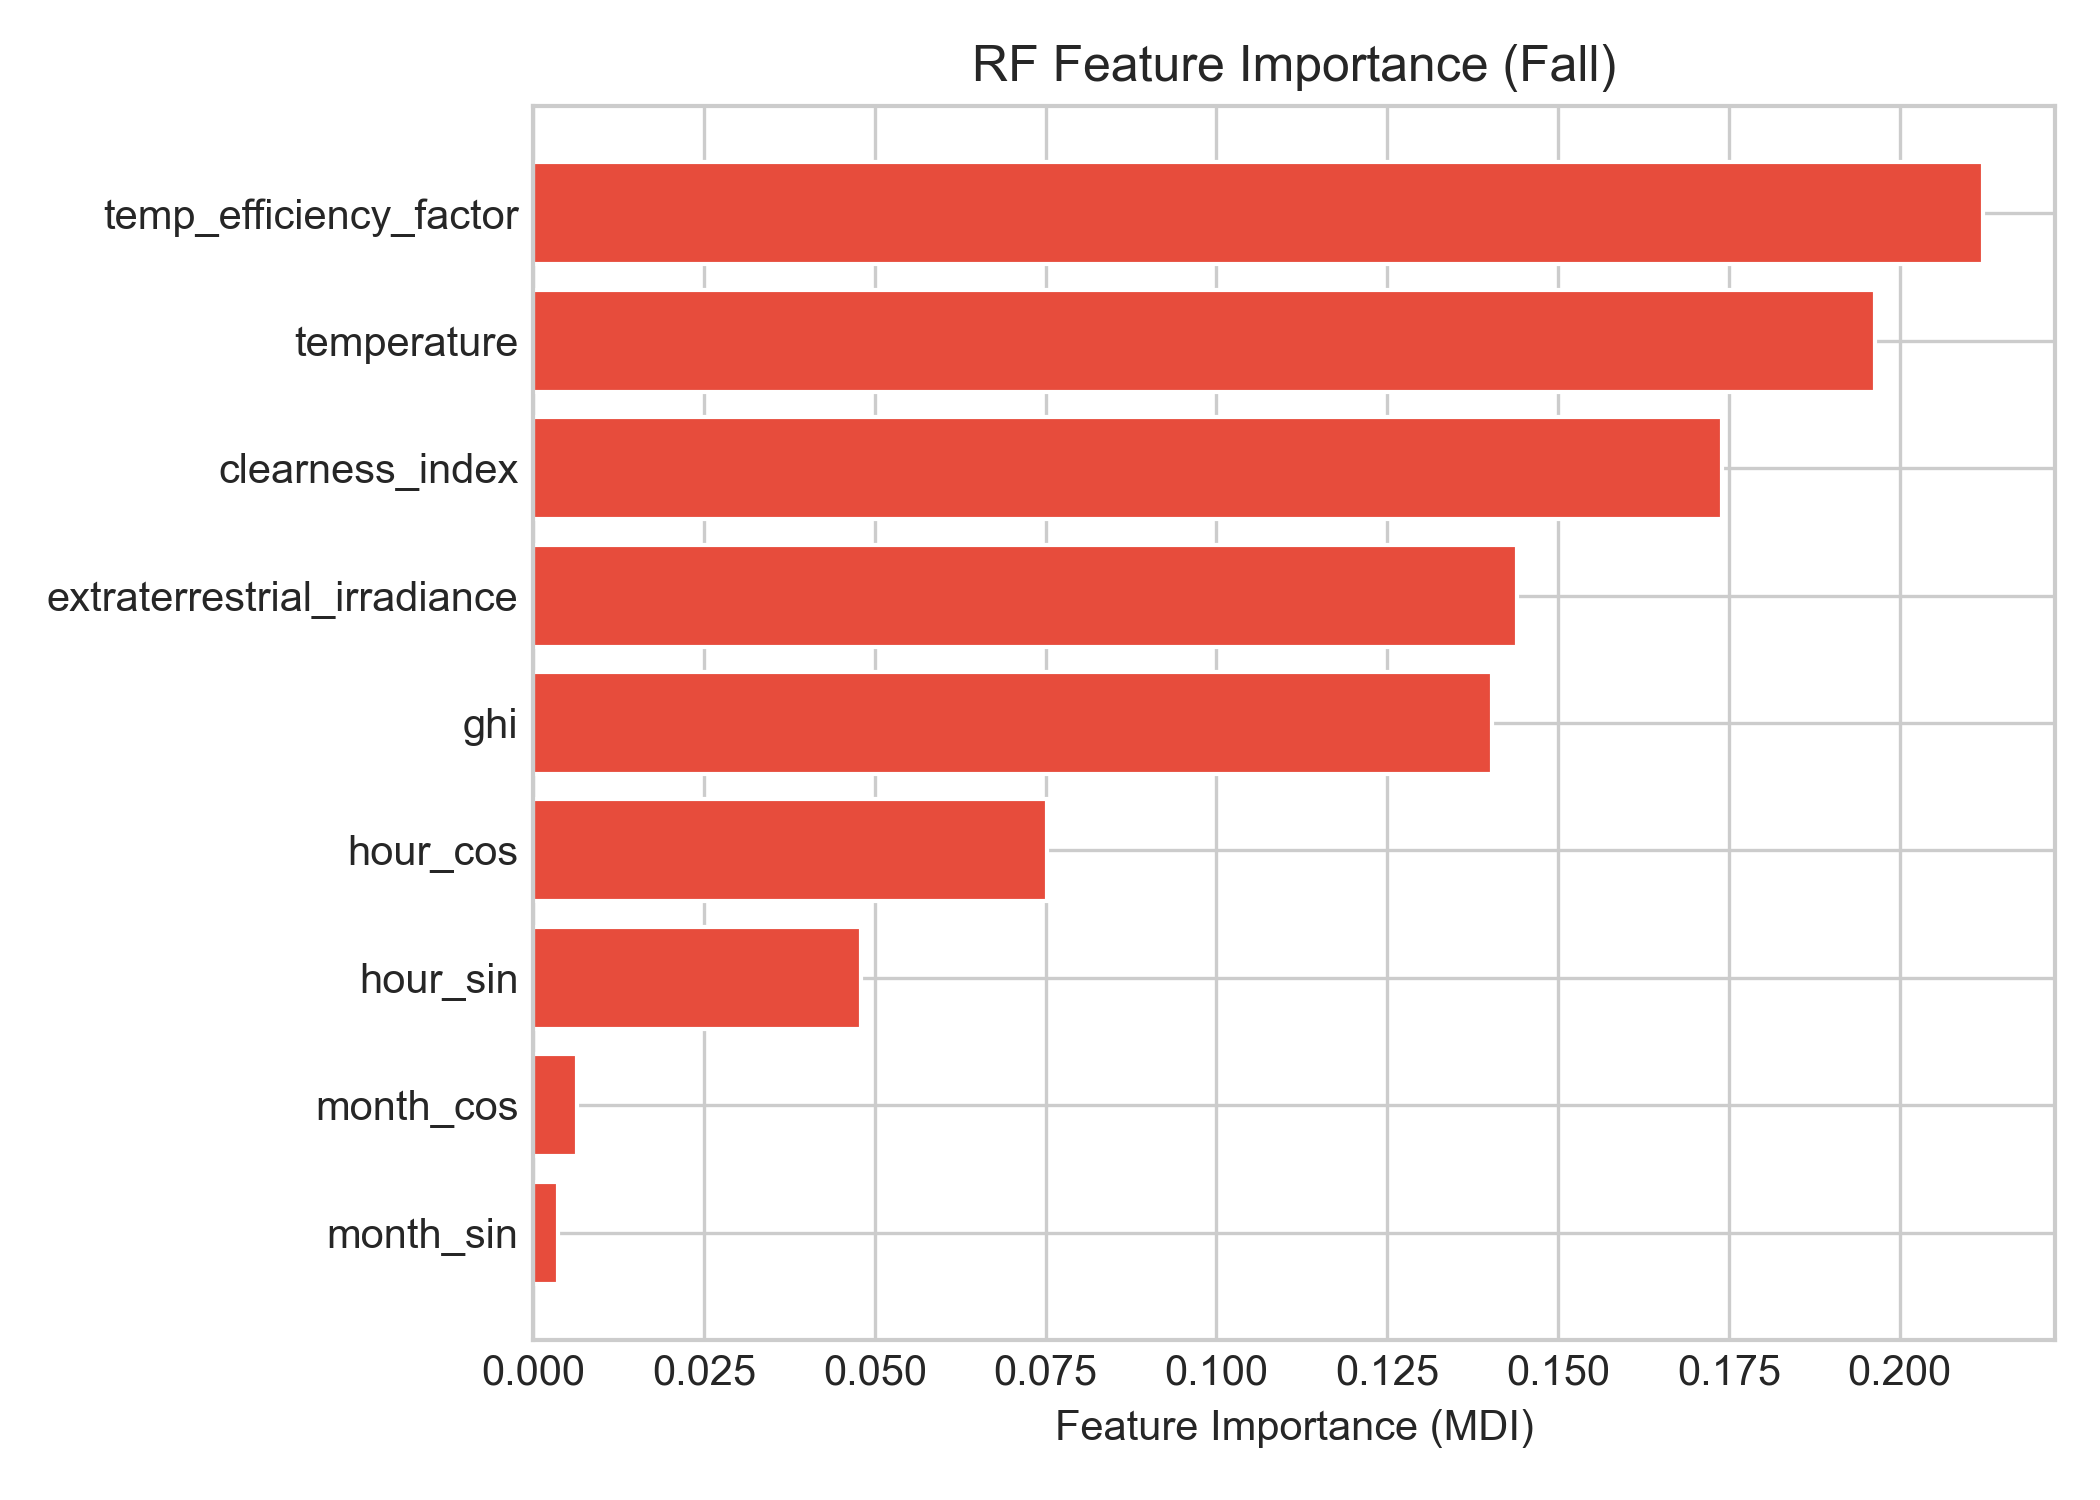
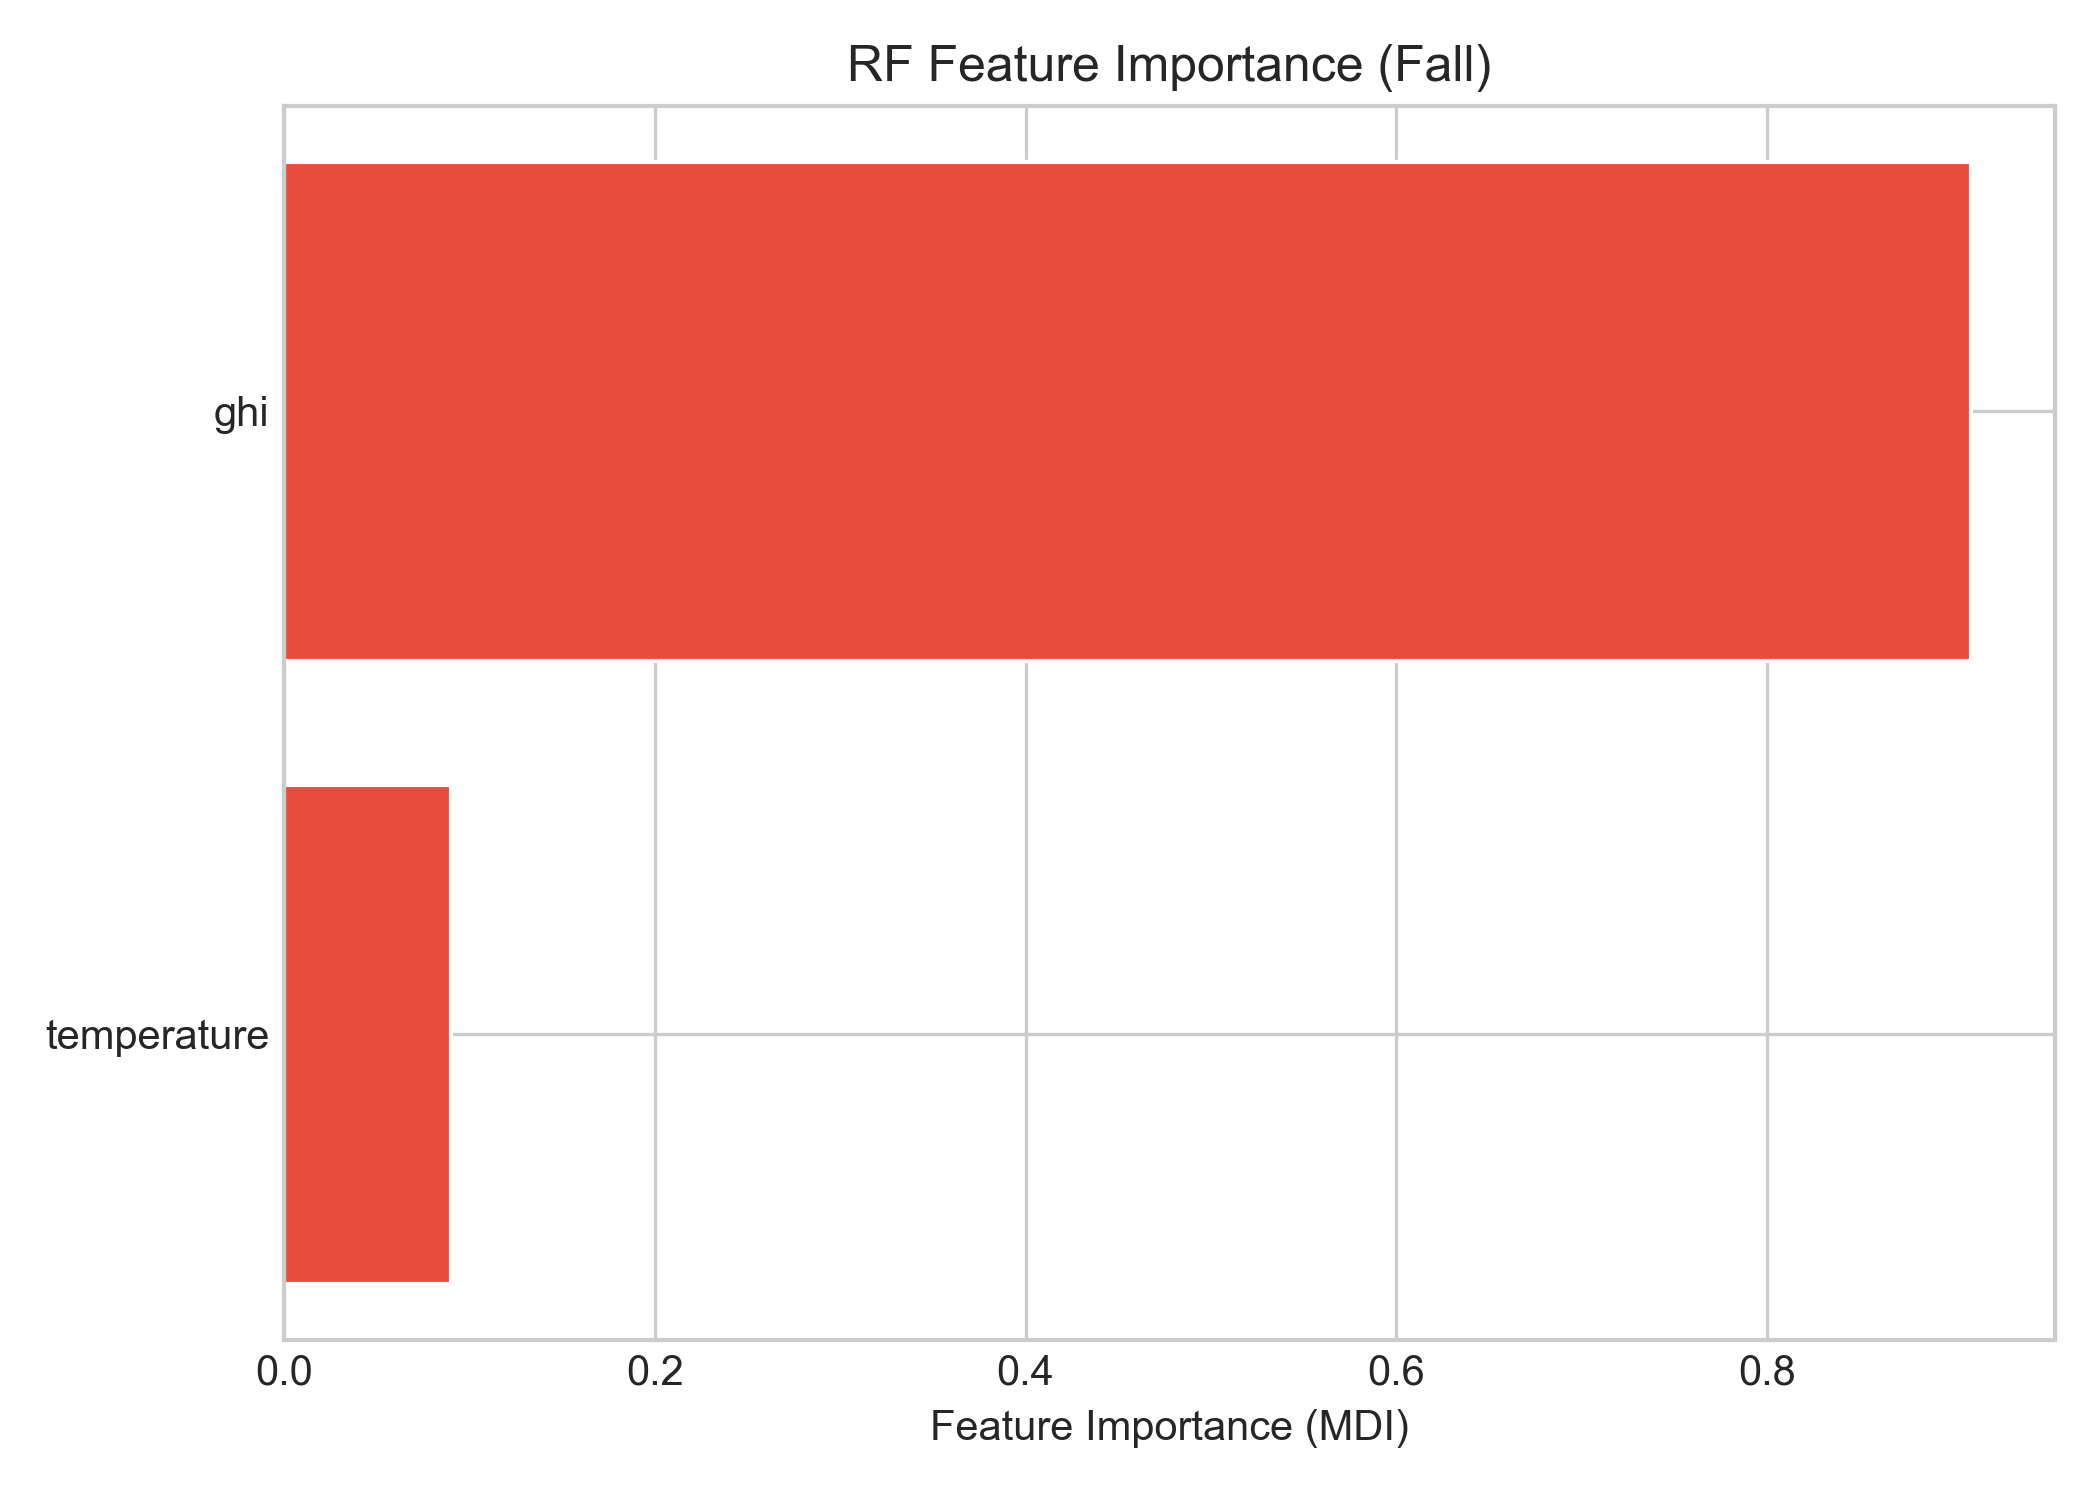
fix: Fixed data loading and updated results

diff --git a/src/main.py b/src/main.py
@@ -24,6 +24,7 @@ import json
 import logging
 import sys
 from pathlib import Path
+from typing import Any
 
 import numpy as np
 import pandas as pd
@@ -48,7 +49,7 @@ from src.evaluation import (
     residual_analysis,
 )
 from src.feature_engineering import engineer_features, get_feature_columns
-from src.models import build_mlr, build_rf, predict, train_model
+from src.models import build_rr, build_rf, predict, train_model
 from src.seasonal_split import SplitData, chronological_split, seasonal_splits
 from src.visualization import (
     plot_actual_vs_predicted,
@@ -72,6 +73,7 @@ def _run_model_on_split(
     season: str,
     feature_cols: list[str],
     do_grid_search: bool = False,
+    preloaded_params: dict[str, Any] | None = None,
 ):
     """Train, tune (if RF), predict on test set, evaluate and plot.
 
@@ -79,11 +81,13 @@ def _run_model_on_split(
     - RF:    tuned using the val set (when do_grid_search=True), then refitted
              on train-only; evaluated on X_test / y_test.
     """
-    if model_name == "MLR":
-        pipeline = build_mlr()
+    if model_name == "RR":
+        pipeline = build_rr()
         fitted, best_params = train_model(pipeline, split)
     else:
         pipeline = build_rf()
+        if preloaded_params:
+            pipeline.set_params(**preloaded_params)
         fitted, best_params = train_model(
             pipeline,
             split,
@@ -93,9 +97,11 @@ def _run_model_on_split(
 
     # Predict on TEST set only
     y_pred = predict(fitted, split)
+    if model_name == "RR":
+        y_pred = np.maximum(y_pred, 0.0)
 
-    # Metrics on test set (pass X_test for Breusch-Pagan on Ridge/MLR)
-    X_for_bp = split.X_test if model_name == "MLR" else None
+    # Metrics on test set (pass X_test for Breusch-Pagan on Ridge/RR)
+    X_for_bp = split.X_test if model_name == "RR" else None
     metrics = compute_metrics(split.y_test, y_pred, X=X_for_bp)
 
     # Residual diagnostics on test set
@@ -203,17 +209,30 @@ def run_pipeline(
     results: dict[str, dict[str, object]] = {}
     best_params_dict: dict[str, dict[str, Any]] = {}
 
+    loaded_params: dict[str, dict[str, Any]] = {}
+    if not do_grid_search:
+        params_path = RESULTS_DIR / "best_hyperparameters.json"
+        if params_path.exists():
+            with open(params_path, "r") as f:
+                loaded_params = json.load(f)
+            print(f"  Loaded hyperparameters from {params_path}")
+
     for split_name, split_data in all_splits.items():
         print(f"\n--- {split_name} ---")
         results[split_name] = {}
         best_params_dict[split_name] = {}
 
-        for model_name in ("MLR", "RF"):
-            label = "Ridge (MLR)" if model_name == "MLR" else "Random Forest"
+        for model_name in ("RR", "RF"):
+            label = "Ridge (RR)" if model_name == "RR" else "Random Forest"
             print(f"  Training {label} ...")
+            preloaded_params = None
+            if not do_grid_search and split_name in loaded_params and model_name in loaded_params[split_name]:
+                preloaded_params = loaded_params[split_name][model_name]
+
             metrics, fitted, best_params = _run_model_on_split(
                 model_name, split_data, split_name, feature_cols,
                 do_grid_search=(do_grid_search and model_name == "RF"),
+                preloaded_params=preloaded_params,
             )
             results[split_name][model_name] = metrics
             
@@ -247,9 +266,8 @@ def run_pipeline(
         print(f"  Hyperparameters -> {params_path}")
 
     # 7. Seasonal bar charts (all four seasons, test-set metrics)
-    season_only = summary_df[summary_df["season"] != "Full Year"]
-    if not season_only.empty:
-        plot_seasonal_bars(season_only)
+    if not summary_df.empty:
+        plot_seasonal_bars(summary_df)
         print("  Seasonal bar charts saved.")
 
     # 8. Console summary

diff --git a/src/visualization.py b/src/visualization.py
@@ -1,7 +1,7 @@
 """
 visualization.py
 ----------------
-Publication-quality figures for the MLR vs. Random Forest solar power
+Publication-quality figures for the RR vs. Random Forest solar power
 forecasting comparison.  All plots are saved to ``config.FIGURES_DIR``.
 """
 
@@ -25,7 +25,7 @@ logger = logging.getLogger(__name__)
 
 plt.style.use(PLOT_STYLE)
 
-MODEL_COLOURS = {"MLR": "#3498db", "RF": "#e74c3c"}
+MODEL_COLOURS = {"RR": "#3498db", "RF": "#e74c3c"}
 SEASON_ORDER = ["Winter", "Spring", "Summer", "Fall"]
 
 
@@ -102,44 +102,40 @@ def plot_residuals(
 
 
 # ---------------------------------------------------------------------------
-# 3. Seasonal Bar Charts (nRMSE and R^2)
+# 3. Seasonal Bar Charts (nRMSE, nMAE and R^2)
 # ---------------------------------------------------------------------------
 
 def plot_seasonal_bars(summary_df: pd.DataFrame) -> None:
-    """Bar charts of nRMSE, nMAE, and R^2 grouped by season (test set)."""
-    fig, axes = plt.subplots(1, 3, figsize=(16, 5))
-
-    present_seasons = [s for s in SEASON_ORDER if s in summary_df["season"].values]
-    plot_df = summary_df[summary_df["season"].isin(present_seasons)].copy()
+    """Bar charts of nRMSE, nMAE, and R^2 grouped by season (test set), split into separate plots."""
+    # Ensure Full Year is displayed alongside the seasons
+    present_categories = [s for s in ["Full Year"] + SEASON_ORDER if s in summary_df["season"].values]
+    plot_df = summary_df[summary_df["season"].isin(present_categories)].copy()
     plot_df["season"] = pd.Categorical(
-        plot_df["season"], categories=present_seasons, ordered=True
+        plot_df["season"], categories=present_categories, ordered=True
     )
 
-    sns.barplot(data=plot_df, x="season", y="nrmse_pct", hue="model",
-                palette=MODEL_COLOURS, ax=axes[0])
-    axes[0].set_title("nRMSE by Season")
-    axes[0].set_ylabel("nRMSE (%)")
-    axes[0].set_xlabel("")
+    metrics = [
+        ("nrmse_pct", "nRMSE (%)", "nRMSE Performance Comparison"),
+        ("nmae_pct", "nMAE (%)", "nMAE Performance Comparison"),
+        ("r2", r"$R^2$", r"$R^2$ Performance Comparison")
+    ]
 
-    sns.barplot(data=plot_df, x="season", y="nmae_pct", hue="model",
-                palette=MODEL_COLOURS, ax=axes[1])
-    axes[1].set_title("nMAE by Season")
-    axes[1].set_ylabel("nMAE (%)")
-    axes[1].set_xlabel("")
-
-    sns.barplot(data=plot_df, x="season", y="r2", hue="model",
-                palette=MODEL_COLOURS, ax=axes[2])
-    axes[2].set_title(r"$R^2$ by Season")
-    axes[2].set_ylabel(r"$R^2$")
-    axes[2].set_xlabel("")
-
-    fig.suptitle("Ridge vs. RF: Seasonal Performance Comparison (Test Set)", fontsize=14, y=1.02)
-    fig.tight_layout()
-
-    outpath = _ensure_dir() / f"seasonal_bars.{FIGURE_FORMAT}"
-    fig.savefig(outpath, dpi=FIGURE_DPI, bbox_inches="tight")
-    plt.close(fig)
-    logger.info("Saved %s", outpath)
+    for col, ylabel, title in metrics:
+        fig, ax = plt.subplots(figsize=(8, 5))
+        sns.barplot(data=plot_df, x="season", y=col, hue="model",
+                    palette=MODEL_COLOURS, ax=ax)
+        ax.set_title(title, fontsize=14)
+        ax.set_ylabel(ylabel)
+        ax.set_xlabel("")
+        
+        # Place legend nicely
+        ax.legend(title="Model", loc="best")
+        
+        fig.tight_layout()
+        outpath = _ensure_dir() / f"bar_{col}.{FIGURE_FORMAT}"
+        fig.savefig(outpath, dpi=FIGURE_DPI, bbox_inches="tight")
+        plt.close(fig)
+        logger.info("Saved %s", outpath)
 
 
 # ---------------------------------------------------------------------------

diff --git a/src/feature_engineering.py b/src/feature_engineering.py
@@ -31,13 +31,10 @@ logger = logging.getLogger(__name__)
 # ---------------------------------------------------------------------------
 
 def engineer_features(df: pd.DataFrame) -> pd.DataFrame:
-    """Add engineered features to a cleaned DataFrame.
+    """Pass-through for raw features. No engineered features added.
 
     The DataFrame must have a ``DatetimeIndex`` and at least the columns
     ``temperature`` and ``ghi``.
-
-    All features are derived solely from temperature, GHI, and the
-    timestamp (hour, month, day-of-year).
 
     Parameters
     ----------
@@ -47,53 +44,21 @@ def engineer_features(df: pd.DataFrame) -> pd.DataFrame:
     Returns
     -------
     pd.DataFrame
-        DataFrame with additional feature columns appended.
+        DataFrame with no additional feature columns appended.
     """
     df = df.copy()
 
-    # --- Temperature-efficiency factor --------------------------------------
-    # eta_T = 1 + gamma * (T_amb - T_STC)
-    # In Nordic climates, cold winters yield eta_T > 1 (efficiency gain).
-    df["temp_efficiency_factor"] = (
-        1.0 + TEMP_COEFFICIENT_GAMMA * (df["temperature"] - STC_TEMPERATURE)
-    )
-
-    # --- Clearness index ----------------------------------------------------
-    # k_t = GHI / I_0, where I_0 is extraterrestrial irradiance.
-    # I_0 = S * (1 + 0.033 * cos(2 * pi * n / 365))  [Spencer, 1971]
-    day_of_year = df.index.dayofyear.astype(float)
-    extra_irradiance = SOLAR_CONSTANT * (
-        1.0 + 0.033 * np.cos(2.0 * np.pi * day_of_year / 365.0)
-    )
-    df["extraterrestrial_irradiance"] = extra_irradiance
-
-    with np.errstate(divide="ignore", invalid="ignore"):
-        df["clearness_index"] = np.clip(
-            df["ghi"] / extra_irradiance, 0.0, 1.0
-        )
-    df["clearness_index"] = df["clearness_index"].fillna(0.0)
-
-    # --- Cyclical time encodings --------------------------------------------
-    hour = df.index.hour + df.index.minute / 60.0
-    df["hour_sin"] = np.sin(2.0 * np.pi * hour / 24.0)
-    df["hour_cos"] = np.cos(2.0 * np.pi * hour / 24.0)
-
-    month_float = df.index.month.astype(float)
-    df["month_sin"] = np.sin(2.0 * np.pi * month_float / 12.0)
-    df["month_cos"] = np.cos(2.0 * np.pi * month_float / 12.0)
-
-    # --- Drop any rows with NaN that appeared during engineering -------------
+    # --- Drop any rows with NaN that appeared during initial loading ---------
     n_before = len(df)
     df = df.dropna()
     n_dropped = n_before - len(df)
     if n_dropped > 0:
-        logger.warning("Dropped %d rows with NaN after feature engineering.", n_dropped)
+        logger.warning("Dropped %d rows with NaN in raw features.", n_dropped)
 
-    logger.info("Feature engineering complete. %d features total.", len(df.columns))
+    logger.info("Raw features locked in. %d features total.", len(df.columns))
     return df
 
 
 def get_feature_columns(df: pd.DataFrame) -> list[str]:
-    """Return the list of feature column names (everything except target and season)."""
-    exclude = {TARGET_COL, "season"}
-    return [str(c) for c in df.columns if c not in exclude]
+    """Return the strictly permitted raw feature columns."""
+    return ["temperature", "ghi"]

diff --git a/results/metrics_summary.tex b/results/metrics_summary.tex
@@ -1,20 +1,20 @@
 \begin{table}
-\caption{Comparative regression metrics for MLR and RF across Nordic seasons.}
+\caption{Comparative regression metrics for RR and RF across Nordic seasons.}
 \label{tab:metrics_summary}
 \begin{tabular}{llccccc}
 \toprule
-season & model & nrmse_pct & nmae_pct & r2 & bp_pvalue & dw_stat \\
+season & model & nrmse_pct & nmae_pct & r2 \\
 \midrule
-Full Year & MLR & 345.28 & 170.62 & 0.5052 & 0.0000 & 0.9187 \\
-Full Year & RF & 283.15 & 67.53 & 0.6673 & NaN & NaN \\
-Winter & MLR & 890.32 & 110.09 & -0.0114 & 0.0000 & 0.5015 \\
-Winter & RF & 890.18 & 104.90 & -0.0111 & NaN & NaN \\
-Spring & MLR & 272.42 & 190.14 & 0.5778 & 0.0000 & 1.0288 \\
-Spring & RF & 286.49 & 128.78 & 0.5331 & NaN & NaN \\
-Summer & MLR & 237.21 & 173.14 & 0.4781 & 0.0000 & 0.8852 \\
-Summer & RF & 306.64 & 96.59 & 0.1278 & NaN & NaN \\
-Fall & MLR & 402.31 & 175.76 & 0.3833 & 0.0000 & 0.7178 \\
-Fall & RF & 340.94 & 98.50 & 0.5571 & NaN & NaN \\
+Full Year & RR & 49.77 & 31.47 & 0.9164 \\
+Full Year & RF & 53.70 & 31.20 & 0.9026 \\
+Winter & RR & 175.77 & 76.23 & 0.7406 \\
+Winter & RF & 171.79 & 67.40 & 0.7522 \\
+Spring & RR & 38.64 & 27.11 & 0.9158 \\
+Spring & RF & 46.75 & 28.50 & 0.8767 \\
+Summer & RR & 38.70 & 28.67 & 0.9049 \\
+Summer & RF & 44.01 & 31.29 & 0.8770 \\
+Fall & RR & 57.15 & 34.67 & 0.9130 \\
+Fall & RF & 89.56 & 43.11 & 0.7863 \\
 \bottomrule
 \end{tabular}
 \end{table}

diff --git a/src/evaluation.py b/src/evaluation.py
@@ -2,14 +2,14 @@
 evaluation.py
 -------------
 Compute regression metrics and residual diagnostics for the comparative
-analysis between MLR and Random Forest.
+analysis between RR and Random Forest.
 
 Metrics
 -------
 - nRMSE: Normalised Root Mean Squared Error (RMSE / mean(y) * 100 %)
 - nMAE: Normalised Mean Absolute Error (MAE / mean(y) * 100 %)
 - R^2: Coefficient of determination
-- Breusch-Pagan p-value: heteroscedasticity test on MLR residuals
+- Breusch-Pagan p-value: heteroscedasticity test on RR residuals
 - Durbin-Watson: autocorrelation in residuals
 """
 
@@ -52,8 +52,6 @@ class Metrics:
             "nrmse_pct": self.nrmse,
             "nmae_pct": self.nmae,
             "r2": self.r2,
-            "bp_pvalue": self.breusch_pagan_pvalue,
-            "dw_stat": self.durbin_watson_stat,
         }
 
 
@@ -198,7 +196,7 @@ def export_latex(df: pd.DataFrame, filepath: str) -> None:
         index=False,
         formatters=formatters,
         caption=(
-            "Comparative regression metrics for MLR and RF across Nordic seasons."
+            "Comparative regression metrics for RR and RF across Nordic seasons."
         ),
         label="tab:metrics_summary",
         column_format="llccccc",

diff --git a/src/models.py b/src/models.py
@@ -1,7 +1,7 @@
 """
 models.py
 ---------
-Build, train, and evaluate Ridge (MLR with L2 regularisation) and
+Build, train, and evaluate Ridge (RR with L2 regularisation) and
 Random Forest (RF) pipelines for the comparative analysis.
 
 Ridge is tuned via cross-validation on the training set (RidgeCV).
@@ -32,7 +32,7 @@ logger = logging.getLogger(__name__)
 # Model builders
 # ---------------------------------------------------------------------------
 
-def build_mlr() -> Pipeline:
+def build_rr() -> Pipeline:
     """Return a Ridge regression pipeline with feature scaling.
 
     RidgeCV selects the best alpha from RIDGE_ALPHAS using leave-one-out
@@ -40,7 +40,7 @@ def build_mlr() -> Pipeline:
     """
     return Pipeline([
         ("scaler", StandardScaler()),
-        ("mlr", RidgeCV(alphas=RIDGE_ALPHAS, store_cv_results=False)),
+        ("rr", RidgeCV(alphas=RIDGE_ALPHAS, store_cv_results=False)),
     ])
 
 

diff --git a/src/data_loader.py b/src/data_loader.py
@@ -84,6 +84,8 @@ def load_production_data(filepath: str | Path) -> pd.DataFrame:
     df = df.set_index("timestamp").sort_index()
 
     # Coerce numeric (some rows may have empty strings after semicolons)
+    # Replace Swedish decimal commas with periods before parsing
+    df[TARGET_COL] = df[TARGET_COL].astype(str).str.replace(",", ".")
     df[TARGET_COL] = pd.to_numeric(df[TARGET_COL], errors="coerce")
 
     # Ensure timezone-aware (assume UTC if naive)

diff --git a/src/__init__.py b/src/__init__.py
@@ -1,2 +1,2 @@
-# Solar Power Forecasting: MLR vs. Random Forest
+# Solar Power Forecasting: RR vs. Random Forest
 # KTH Bachelor's Thesis

diff --git a/README.md b/README.md
@@ -1,2 +1,2 @@
 # Kex
-KTH thesis on solar power forecasting. Specializes in comparing MLR and Random Forest models across Nordic seasons, analyzing temperature-efficiency inversions, and Python-based data processing.
+KTH thesis on solar power forecasting. Specializes in comparing RR and Random Forest models across Nordic seasons, analyzing temperature-efficiency inversions, and Python-based data processing.
